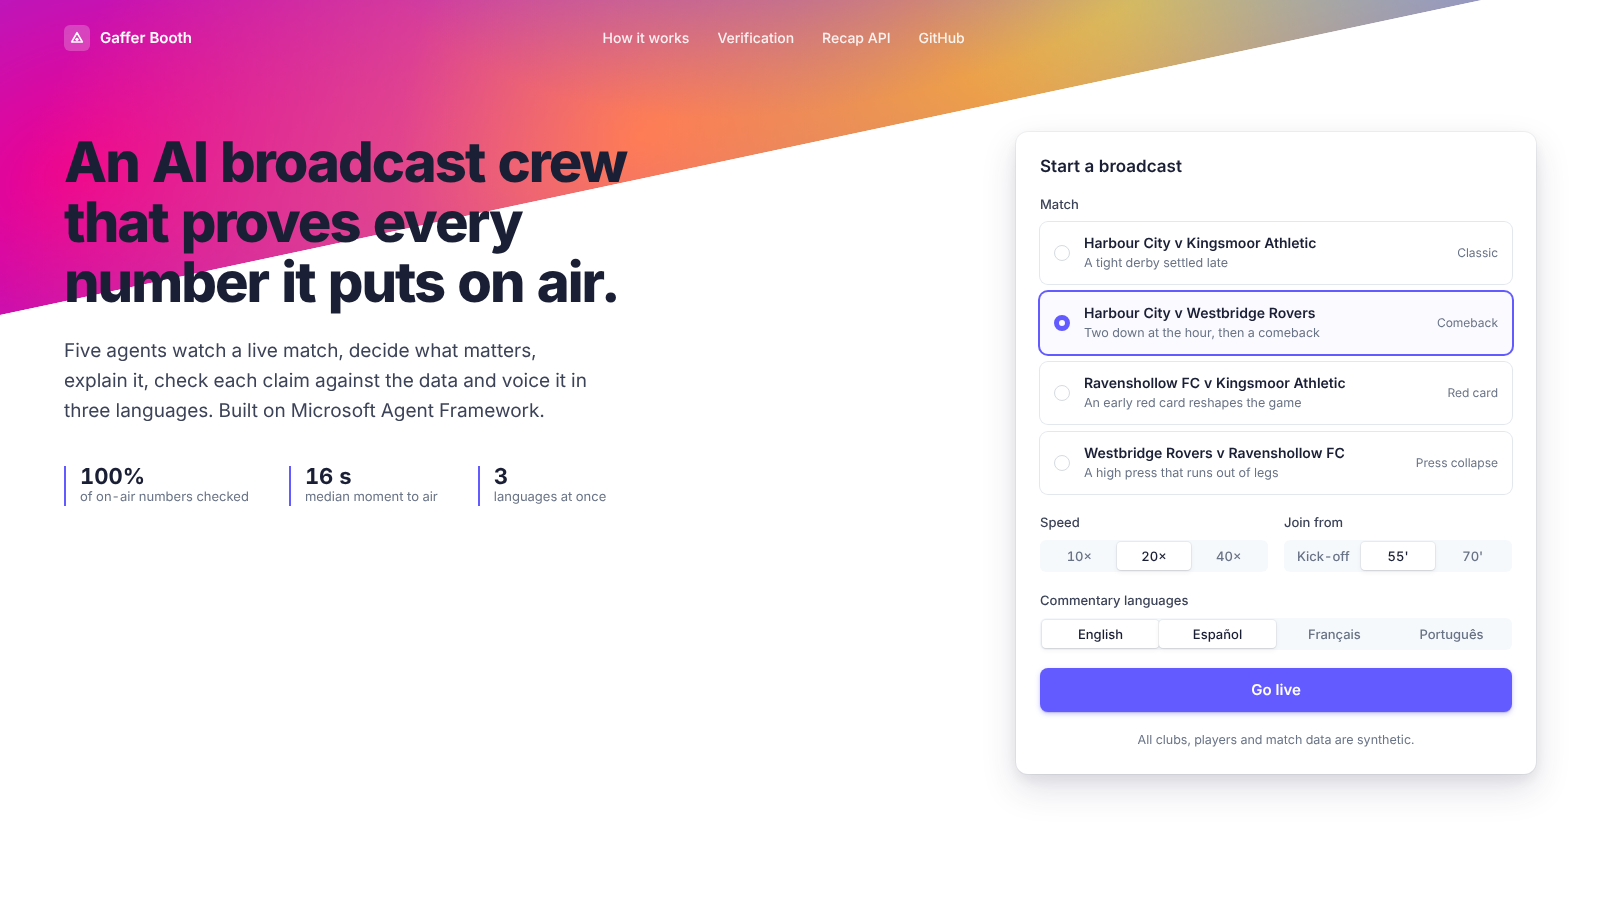
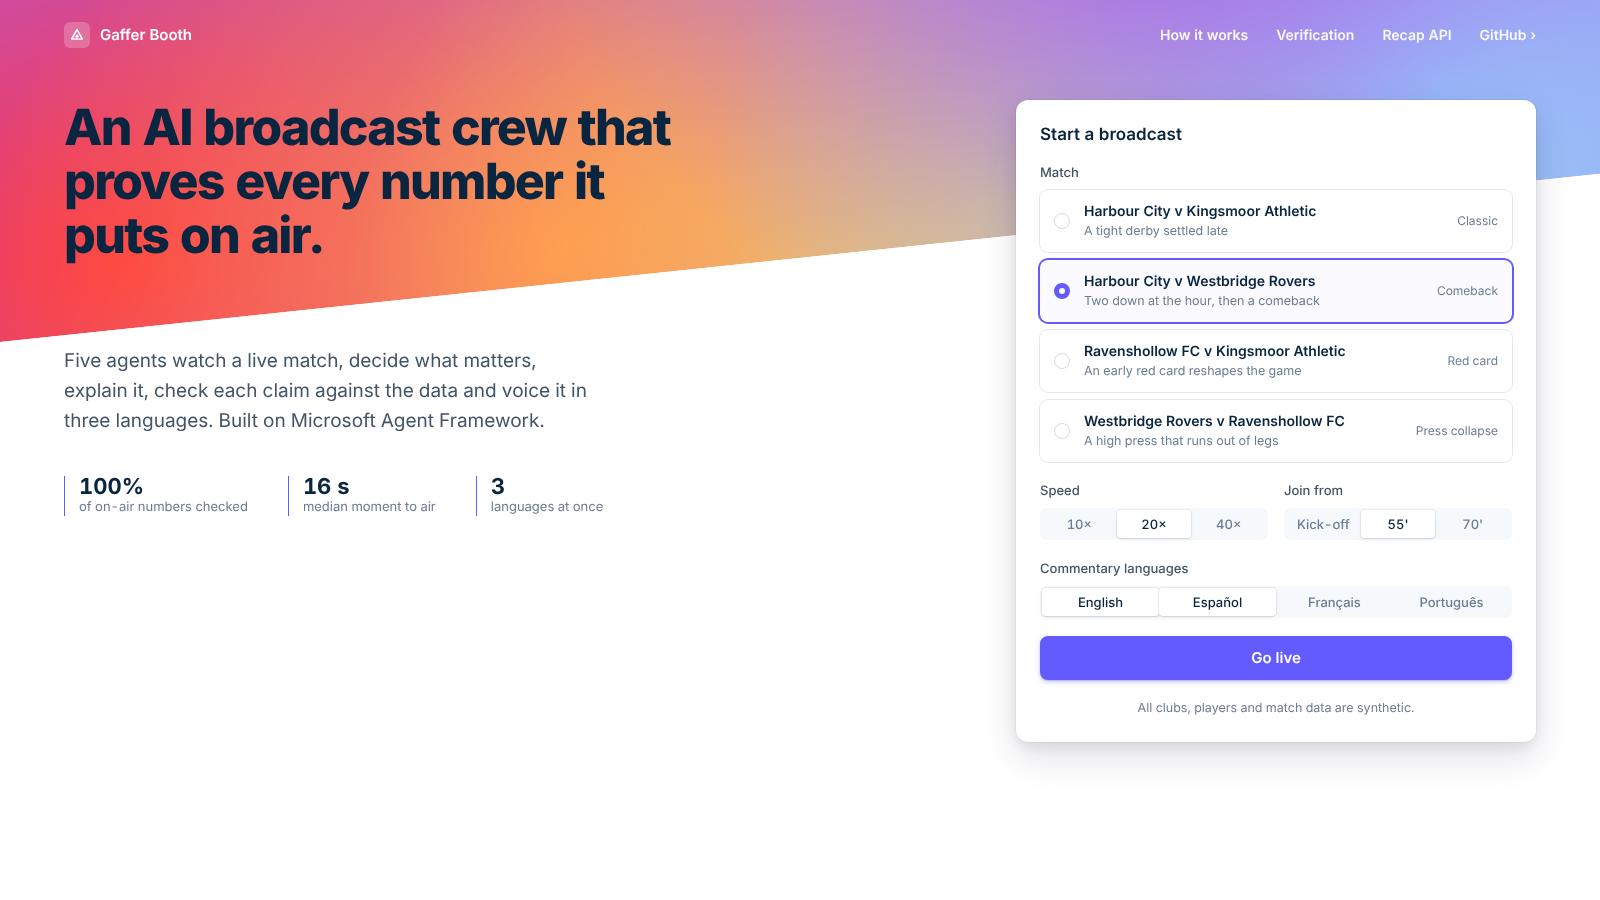
design: polish v3 mockups (navy text, blurple/cyan teams, SVG nav, links, hero band)
Claude-Session: https://claude.ai/code/session_01CbvhcokrZSWCkUefNvq6f1

diff --git a/design/redesign-v3/stripe.css b/design/redesign-v3/stripe.css
@@ -2,9 +2,9 @@
    one blurple accent for actions and the home side, hairline borders and soft layered shadows. */
 :root {
   --canvas: #f6f9fc; --surface: #ffffff; --border: #e3e8ee; --border-2: #d5dbe1;
-  --text: #1a1f36; --text-2: #3c4257; --muted: #697386; --faint: #a3acb9;
+  --text: #0a2540; --text-2: #425466; --muted: #6b7c93; --faint: #a3acb9; --navy: #0a2540; --navy-2: #0e2d4d;
   --accent: #635bff; --accent-hover: #5851ec; --accent-soft: #f0efff;
-  --away: #0bb6a1;
+  --away: #0ab4d6;
   --ok: #1ea672; --ok-bg: #d7f7c2; --ok-text: #05690d;
   --bad: #df1b41; --bad-bg: #ffe7f2; --bad-text: #b3093c;
   --warn-bg: #fcedb9; --warn-text: #a82c00;
@@ -24,13 +24,16 @@ button { font: inherit; }
 .shell { display: grid; grid-template-columns: 236px 1fr; height: 100vh; }
 .side { background: var(--canvas); border-right: 1px solid var(--border); display: flex; flex-direction: column; padding: 18px 12px; }
 .brand { display: flex; align-items: center; gap: 10px; font-weight: 600; font-size: 15px; padding: 0 8px 20px; }
-.logo { width: 26px; height: 26px; border-radius: 6px; background: linear-gradient(135deg, #7a73ff, #635bff 55%, #0bb6a1); display: grid; place-items: center; }
+.logo { width: 26px; height: 26px; border-radius: 6px; background: var(--accent); display: grid; place-items: center; }
 .logo svg { width: 16px; height: 16px; }
 nav { display: grid; gap: 2px; }
-nav a { display: flex; align-items: center; gap: 10px; padding: 6px 8px; border-radius: 6px; color: var(--text-2); font-weight: 500; cursor: pointer; }
-nav a i { width: 16px; text-align: center; font-style: normal; color: var(--faint); font-size: 12px; }
-nav a.on { color: var(--accent); background: var(--accent-soft); }
-nav a.on i { color: var(--accent); }
+nav a { display: flex; align-items: center; gap: 10px; padding: 6px 8px; border-radius: 6px; color: var(--text-2); font-weight: 500; cursor: pointer; text-decoration: none; transition: color .12s, background .12s; }
+nav a svg { width: 16px; height: 16px; flex: none; stroke: currentColor; fill: none; stroke-width: 1.7; stroke-linecap: round; stroke-linejoin: round; color: var(--faint); }
+nav a:hover { color: var(--text); background: #ebeef3; }
+nav a.on { color: var(--accent); font-weight: 600; }
+nav a.on svg { color: var(--accent); }
+a.link { color: var(--accent); font-weight: 500; text-decoration: none; }
+a.link:hover { color: var(--text); }
 .side-foot { margin-top: auto; display: grid; gap: 12px; padding: 0 8px; }
 .model { display: grid; gap: 2px; font-size: 13px; padding: 12px; background: var(--surface); border-radius: 8px; box-shadow: var(--shadow-1); }
 .model .k { font-size: 11px; font-weight: 600; text-transform: uppercase; letter-spacing: .06em; color: var(--muted); }
@@ -72,7 +75,7 @@ h3 { font-size: 12px; font-weight: 600; text-transform: uppercase; letter-spacin
 .card-h { display: flex; align-items: center; justify-content: space-between; padding: 14px 18px; border-bottom: 1px solid var(--border); }
 
 .program { grid-row: 1; overflow: hidden; display: flex; flex-direction: column; }
-.pic { position: relative; flex: 1; min-height: 0; background: #2c7a52; overflow: hidden; }
+.pic { position: relative; flex: 1; min-height: 0; background: var(--navy); overflow: hidden; }
 .pic svg { position: absolute; inset: -4% -2%; width: 104%; height: 108%; }
 .ov-score { position: absolute; top: 16px; left: 16px; display: flex; align-items: center; gap: 10px; background: rgba(255,255,255,.96); border-radius: 6px; padding: 6px 12px; box-shadow: var(--shadow-2); font-weight: 600; }
 .ov-score .h { color: var(--accent); } .ov-score .a { color: var(--away); }
@@ -88,8 +91,8 @@ h3 { font-size: 12px; font-weight: 600; text-transform: uppercase; letter-spacin
 .ov-stats div:last-child { border-right: 0; }
 .ov-stats b { display: block; white-space: nowrap; font-size: 18px; font-weight: 700; }
 .ov-stats span { font-size: 12px; color: var(--muted); }
-.ov-proof { margin: 0 -18px; padding: 7px 18px; background: var(--ok-bg); color: var(--ok-text); font-size: 12px; font-weight: 600; }
-.ov-cap { position: absolute; left: 16px; right: 16px; bottom: 16px; display: flex; gap: 12px; align-items: center; background: rgba(26,31,54,.86); color: #fff; border-radius: 8px; padding: 10px 14px; font-size: 15px; line-height: 21px; backdrop-filter: blur(6px); }
+.ov-proof { margin: 0 -18px; padding: 8px 18px; background: #f6f9fc; border-top: 1px solid var(--border); color: var(--ok); font-size: 12px; font-weight: 600; }
+.ov-cap { position: absolute; left: 16px; right: 16px; bottom: 16px; display: flex; gap: 12px; align-items: center; background: rgba(255,255,255,.1); border: 1px solid rgba(255,255,255,.14); color: #fff; border-radius: 8px; padding: 10px 14px; font-size: 15px; line-height: 21px; backdrop-filter: blur(6px); }
 .ov-cap span { font: 600 11px var(--mono); background: rgba(255,255,255,.16); border-radius: 4px; padding: 2px 6px; }
 .cams { display: flex; align-items: center; gap: 6px; padding: 10px 14px; border-top: 1px solid var(--border); }
 .cam { font-size: 13px; font-weight: 500; color: var(--muted); padding: 4px 10px; border-radius: 6px; }
@@ -124,6 +127,7 @@ h3 { font-size: 12px; font-weight: 600; text-transform: uppercase; letter-spacin
 table { width: 100%; border-collapse: collapse; }
 th { text-align: left; font-size: 12px; font-weight: 500; color: var(--muted); padding: 8px 18px; border-bottom: 1px solid var(--border); }
 td { padding: 9px 18px; border-bottom: 1px solid var(--border); white-space: nowrap; }
-tr.hl td { background: #fafbff; }
+tr.hl td { background: #f8f8ff; }
+tr.hl td:first-child { box-shadow: inset 2px 0 0 var(--accent); }
 .r { text-align: right; }
 td b { font-weight: 600; }

diff --git a/design/redesign-v3/fulltime.html b/design/redesign-v3/fulltime.html
@@ -30,12 +30,15 @@
 .stats4 span { display: block; font-size: 12px; color: var(--muted); }
 .stats4 b { font-size: 20px; font-weight: 700; }
 .stats4 em { font-style: normal; color: var(--muted); font-weight: 500; }
-.ratings td { padding: 8px 18px; }
+.ratings td { padding: 8px 14px; }
+.ratings td:first-child { padding-left: 18px; }
+.ratings td:last-child { padding-right: 18px; width: 1%; }
+.ratings td.mono { color: var(--muted); font-size: 12.5px; }
 .rbar { display: inline-block; height: 6px; border-radius: 3px; background: var(--accent); vertical-align: middle; }
 .rbar.a { background: var(--away); }
 .post { margin: 12px 18px 0; padding: 12px 14px; border-radius: 8px; box-shadow: 0 0 0 1px var(--border); font-size: 13.5px; line-height: 19px; }
 .post .pf { display: flex; justify-content: space-between; margin-top: 8px; color: var(--muted); font-size: 12px; }
-.post .pf a { color: var(--accent); font-weight: 600; }
+
 </style>
 </head>
 <body>
@@ -43,11 +46,11 @@
   <aside class="side">
     <div class="brand"><span class="logo"><svg viewBox="0 0 24 24"><path d="M4 18 L12 4 L20 18 Z" fill="none" stroke="#fff" stroke-width="2.4" stroke-linejoin="round"/><circle cx="12" cy="14" r="2.4" fill="#fff"/></svg></span>Gaffer Booth</div>
     <nav>
-      <a><i>●</i>Live broadcast</a>
-      <a><i>≡</i>Rundown</a>
-      <a><i>✓</i>Verification log</a>
-      <a class="on"><i>◷</i>Full-time recap</a>
-      <a><i>⚙</i>Crew settings</a>
+      <a href="#"><svg viewBox="0 0 16 16"><circle cx="8" cy="8" r="1.6"/><path d="M5 5a4.2 4.2 0 0 0 0 6M11 5a4.2 4.2 0 0 1 0 6M3 3a7 7 0 0 0 0 10M13 3a7 7 0 0 1 0 10"/></svg>Live broadcast</a>
+      <a href="#"><svg viewBox="0 0 16 16"><path d="M5.5 4h8M5.5 8h8M5.5 12h8"/><circle cx="2.5" cy="4" r=".6"/><circle cx="2.5" cy="8" r=".6"/><circle cx="2.5" cy="12" r=".6"/></svg>Rundown</a>
+      <a href="#"><svg viewBox="0 0 16 16"><path d="M8 1.8 13 3.6v4.1c0 3-2.1 5.4-5 6.5-2.9-1.1-5-3.5-5-6.5V3.6Z"/><path d="m5.6 8 1.7 1.7 3.2-3.4"/></svg>Verification log</a>
+      <a class="on" href="#"><svg viewBox="0 0 16 16"><rect x="2.5" y="2" width="11" height="12" rx="1.5"/><path d="M5.5 5.5h5M5.5 8h5M5.5 10.5h3"/></svg>Full-time recap</a>
+      <a href="#"><svg viewBox="0 0 16 16"><path d="M2.5 4.5h7M12.5 4.5h1M2.5 11.5h1M6.5 11.5h7"/><circle cx="11" cy="4.5" r="1.5"/><circle cx="5" cy="11.5" r="1.5"/></svg>Crew settings</a>
     </nav>
     <div class="side-foot">
       <div class="model"><span class="k">Model</span><span>nemotron-3.5-super-vl</span><span class="muted">OpenRouter · free tier</span></div>
@@ -103,18 +106,18 @@
             <div class="card-h"><h2>Player ratings</h2><span class="muted sm">Computed in code</span></div>
             <table>
               <tbody>
-                <tr><td><b>Wes Varga</b> <span class="pill live">POTM</span></td><td class="r mono">2 G · 0.63 xG</td><td class="r"><span class="rbar" style="width:52px"></span> <b>9.1</b></td></tr>
-                <tr><td>Cruz Novak</td><td class="r mono">1 G · 0.48 xG</td><td class="r"><span class="rbar" style="width:50px"></span> <b>8.9</b></td></tr>
-                <tr><td>Kofi Grieve</td><td class="r mono">GK · 0.00</td><td class="r"><span class="rbar a" style="width:49px"></span> <b>8.8</b></td></tr>
-                <tr><td>Mats Lindqvist</td><td class="r mono">4 KP</td><td class="r"><span class="rbar" style="width:44px"></span> <b>8.2</b></td></tr>
-                <tr><td>Pele Grieve</td><td class="r mono">1 G · 0.15 xG</td><td class="r"><span class="rbar a" style="width:44px"></span> <b>8.2</b></td></tr>
+                <tr><td><b>Wes Varga</b> <span class="pill live">POTM</span></td><td class="r mono">2 G · 0.63 xG</td><td class="r"><span class="rbar" style="width:36px"></span> <b>9.1</b></td></tr>
+                <tr><td>Cruz Novak</td><td class="r mono">1 G · 0.48 xG</td><td class="r"><span class="rbar" style="width:34px"></span> <b>8.9</b></td></tr>
+                <tr><td>Kofi Grieve</td><td class="r mono">GK · 0.00</td><td class="r"><span class="rbar a" style="width:33px"></span> <b>8.8</b></td></tr>
+                <tr><td>Mats Lindqvist</td><td class="r mono">4 KP</td><td class="r"><span class="rbar" style="width:29px"></span> <b>8.2</b></td></tr>
+                <tr><td>Pele Grieve</td><td class="r mono">1 G · 0.15 xG</td><td class="r"><span class="rbar a" style="width:29px"></span> <b>8.2</b></td></tr>
               </tbody>
             </table>
           </section>
           <section class="card" style="padding-bottom:14px">
             <div class="card-h"><h2>Social posts</h2><span class="muted sm">3 ready</span></div>
-            <div class="post">Harbour City fight back from 3–1 down to beat Westbridge Rovers 4–3. Wes Varga scores twice, including the 90+4 winner.<div class="pf"><span>118 / 280 · ✓ 6 claims</span><a>Copy</a></div></div>
-            <div class="post">Player of the match: Wes Varga, 9.1. Two goals from 0.63 xG.<div class="pf"><span>61 / 280 · ✓ 4 claims</span><a>Copy</a></div></div>
+            <div class="post">Harbour City fight back from 3–1 down to beat Westbridge Rovers 4–3. Wes Varga scores twice, including the 90+4 winner.<div class="pf"><span>118 / 280 · ✓ 6 claims</span><a class="link" href="#">Copy</a></div></div>
+            <div class="post">Player of the match: Wes Varga, 9.1. Two goals from 0.63 xG.<div class="pf"><span>61 / 280 · ✓ 4 claims</span><a class="link" href="#">Copy</a></div></div>
           </section>
         </div>
       </div>

diff --git a/design/redesign-v3/setup.html b/design/redesign-v3/setup.html
@@ -8,19 +8,19 @@
 <style>
 body { overflow: hidden; background: var(--surface); }
 .hero { position: relative; height: 100vh; overflow: hidden; }
-.wash { position: absolute; left: 0; right: 0; top: -60%; height: 95%; transform: skewY(-12deg); transform-origin: 0; overflow: hidden; }
+.wash { position: absolute; left: 0; right: 0; top: -38%; height: 76%; transform: skewY(-6deg); transform-origin: 0; overflow: hidden; }
 .wash canvas { position: absolute; inset: 0; width: 100%; height: 100%; }
 .top { position: relative; z-index: 2; display: flex; align-items: center; justify-content: space-between; padding: 22px 64px; color: #fff; }
 .top .brand { padding: 0; color: #fff; }
 .top .brand .logo { background: rgba(255,255,255,.22); }
 .top nav { display: flex; gap: 28px; font-weight: 500; }
-.top nav a { color: rgba(255,255,255,.9); padding: 0; }
+.top nav a { color: #fff; padding: 0; font-weight: 600; text-decoration: none; opacity: .92; } .top nav a:hover { opacity: 1; background: none; }
 .top .btn { background: rgba(255,255,255,.22); color: #fff; box-shadow: none; }
-.body { position: relative; z-index: 2; display: grid; grid-template-columns: 1fr 520px; gap: 64px; padding: 56px 64px 0; align-items: start; }
-.lead h1 { font-size: 56px; line-height: 60px; font-weight: 800; letter-spacing: -.035em; color: var(--text); max-width: 640px; }
-.lead p { margin-top: 24px; font-size: 19px; line-height: 30px; color: var(--text-2); max-width: 540px; }
+.body { position: relative; z-index: 2; display: grid; grid-template-columns: 1fr 520px; gap: 64px; padding: 30px 64px 0; align-items: start; }
+.lead h1 { font-size: 50px; line-height: 54px; font-weight: 800; letter-spacing: -.035em; color: var(--navy); mix-blend-mode: color-burn; max-width: 640px; }
+.lead p { margin-top: 84px; font-size: 19px; line-height: 30px; color: var(--text-2); max-width: 540px; }
 .lead .stats { display: flex; gap: 40px; margin-top: 40px; }
-.lead .stats div { border-left: 2px solid var(--accent); padding-left: 14px; }
+.lead .stats div { border-left: 1px solid var(--accent); padding-left: 14px; }
 .lead .stats b { display: block; font-size: 22px; font-weight: 700; }
 .lead .stats span { color: var(--muted); font-size: 13px; }
 .form { background: var(--surface); border-radius: 12px; box-shadow: var(--shadow-2); padding: 24px; display: grid; gap: 18px; }
@@ -44,7 +44,7 @@ body { overflow: hidden; background: var(--surface); }
   <div class="wash"><canvas id="mesh"></canvas></div>
   <header class="top">
     <div class="brand"><span class="logo"><svg viewBox="0 0 24 24"><path d="M4 18 L12 4 L20 18 Z" fill="none" stroke="#fff" stroke-width="2.4" stroke-linejoin="round"/><circle cx="12" cy="14" r="2.4" fill="#fff"/></svg></span>Gaffer Booth</div>
-    <nav><a>How it works</a><a>Verification</a><a>Recap API</a><a>GitHub</a></nav>
+    <nav><a href="#">How it works</a><a href="#">Verification</a><a href="#">Recap API</a><a href="#">GitHub ›</a></nav>
   </header>
   <div class="body">
     <div class="lead">
@@ -81,8 +81,8 @@ body { overflow: hidden; background: var(--surface); }
 // Stripe-like mesh: a few soft colour blobs blended on a canvas, drawn once.
 const c = document.getElementById("mesh"), r = c.getBoundingClientRect(), d = devicePixelRatio || 1;
 c.width = r.width * d; c.height = r.height * d; const g = c.getContext("2d"); g.scale(d, d);
-g.fillStyle = "#7038ff"; g.fillRect(0, 0, r.width, r.height);
-for (const [x, y, rad, col] of [[.05,.85,.45,"#ef008f"],[.4,.95,.4,"#ff5f6d"],[.7,.9,.45,"#ffba27"],[.95,.7,.4,"#6ec3f4"],[.55,.5,.35,"#7038ff"]]) {
+g.fillStyle = "#a960ee"; g.fillRect(0, 0, r.width, r.height);
+for (const [x, y, rad, col] of [[.08,.9,.42,"#ff333d"],[.35,.95,.38,"#ff8a4d"],[.62,.95,.4,"#ffcb57"],[.9,.85,.45,"#90e0ff"],[.75,.45,.4,"#a960ee"]]) {
   const gr = g.createRadialGradient(x*r.width, y*r.height, 0, x*r.width, y*r.height, rad*r.width);
   gr.addColorStop(0, col); gr.addColorStop(1, col + "00"); g.fillStyle = gr; g.fillRect(0, 0, r.width, r.height);
 }

diff --git a/design/redesign-v3/live.html b/design/redesign-v3/live.html
@@ -11,11 +11,11 @@
   <aside class="side">
     <div class="brand"><span class="logo"><svg viewBox="0 0 24 24"><path d="M4 18 L12 4 L20 18 Z" fill="none" stroke="#fff" stroke-width="2.4" stroke-linejoin="round"/><circle cx="12" cy="14" r="2.4" fill="#fff"/></svg></span>Gaffer Booth</div>
     <nav>
-      <a class="on"><i>●</i>Live broadcast</a>
-      <a><i>≡</i>Rundown</a>
-      <a><i>✓</i>Verification log</a>
-      <a><i>◷</i>Full-time recap</a>
-      <a><i>⚙</i>Crew settings</a>
+      <a class="on" href="#"><svg viewBox="0 0 16 16"><circle cx="8" cy="8" r="1.6"/><path d="M5 5a4.2 4.2 0 0 0 0 6M11 5a4.2 4.2 0 0 1 0 6M3 3a7 7 0 0 0 0 10M13 3a7 7 0 0 1 0 10"/></svg>Live broadcast</a>
+      <a href="#"><svg viewBox="0 0 16 16"><path d="M5.5 4h8M5.5 8h8M5.5 12h8"/><circle cx="2.5" cy="4" r=".6"/><circle cx="2.5" cy="8" r=".6"/><circle cx="2.5" cy="12" r=".6"/></svg>Rundown</a>
+      <a href="#"><svg viewBox="0 0 16 16"><path d="M8 1.8 13 3.6v4.1c0 3-2.1 5.4-5 6.5-2.9-1.1-5-3.5-5-6.5V3.6Z"/><path d="m5.6 8 1.7 1.7 3.2-3.4"/></svg>Verification log</a>
+      <a href="#"><svg viewBox="0 0 16 16"><rect x="2.5" y="2" width="11" height="12" rx="1.5"/><path d="M5.5 5.5h5M5.5 8h5M5.5 10.5h3"/></svg>Full-time recap</a>
+      <a href="#"><svg viewBox="0 0 16 16"><path d="M2.5 4.5h7M12.5 4.5h1M2.5 11.5h1M6.5 11.5h7"/><circle cx="11" cy="4.5" r="1.5"/><circle cx="5" cy="11.5" r="1.5"/></svg>Crew settings</a>
     </nav>
     <div class="side-foot">
       <div class="model"><span class="k">Model</span><span>nemotron-3.5-super-vl</span><span class="muted">OpenRouter · free tier</span></div>
@@ -116,7 +116,7 @@
 </div>
 <script src="pitch.js"></script>
 <script>
-drawPitch(document.getElementById("pitch"), { stripes: true, grassA: "#2c7a52", grassB: "#2f8358", line: "rgba(255,255,255,.8)", lw: 0.3, home: "#ffffff", away: "#0b2a4a", ball: "#ffd43b", ring: "#0b2a4a", r: 0.85 });
+drawPitch(document.getElementById("pitch"), { stripes: true, grassA: "#0a2540", grassB: "#0f2e50", line: "rgba(255,255,255,.28)", lw: 0.25, home: "#8f89ff", away: "#2fd3f0", ball: "#ffffff", ring: "#0a2540", r: 1.15 });
 const series = {
   xg: [[0,.1,.2,.3,.5,.6,.9,1.0,1.2,1.4,1.5,1.7,1.9,2.13],[0,.1,.2,.3,.4,.5,.6,.7,.8,.8,.9,1.0,1.0,1.04]],
   shots: [[0,1,2,3,4,5,6,7,8,9,10,11,12,13],[0,2,3,5,7,8,10,11,13,14,15,17,18,19]],
@@ -129,7 +129,7 @@ document.querySelectorAll("canvas[data-s]").forEach((cv) => {
   const [h, a] = series[cv.dataset.s], all = h.concat(a), mx = Math.max(...all), mn = Math.min(...all);
   const y = (v) => r.height - 4 - (v - mn) / (mx - mn || 1) * (r.height - 8), x = (i) => i / (h.length - 1) * r.width;
   g.strokeStyle = "#e3e8ee"; g.beginPath(); g.moveTo(0, r.height - .5); g.lineTo(r.width, r.height - .5); g.stroke();
-  for (const [s, c, fill] of [[a, "#0bb6a1", false], [h, "#635bff", true]]) {
+  for (const [s, c, fill] of [[a, "#0ab4d6", false], [h, "#635bff", true]]) {
     g.beginPath(); s.forEach((v, i) => i ? g.lineTo(x(i), y(v)) : g.moveTo(x(i), y(v)));
     g.lineWidth = 2; g.strokeStyle = c; g.stroke();
     if (fill) { g.lineTo(r.width, r.height); g.lineTo(0, r.height); g.closePath(); const gr = g.createLinearGradient(0, 0, 0, r.height); gr.addColorStop(0, "rgba(99,91,255,.18)"); gr.addColorStop(1, "rgba(99,91,255,0)"); g.fillStyle = gr; g.fill(); }
